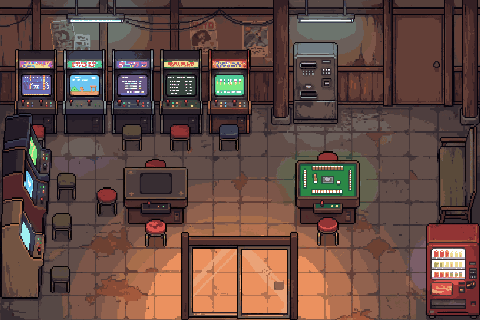
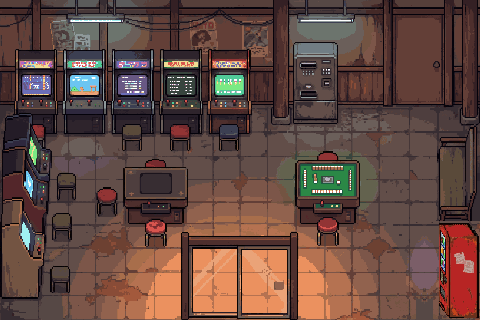
公開版を更新(慰霊碑の大写し、ゲームセンターのガラス戸と自販機、ぼぎ雀のリーチの捨て牌、版 620)

Changed region(s): [[0.875, 0.6875, 1.0, 1.0]]

diff --git a/field/index.html b/field/index.html
@@ -14,9 +14,9 @@
   <link rel="apple-touch-icon" href="./apple-touch-icon.png">
   <meta name="apple-mobile-web-app-title" content="ぼぎだぢ">
   <meta http-equiv="Cache-Control" content="no-cache">
-  <script src="./fresh.js?v=619"></script>
-  <script src="./i18n.js?v=619"></script>
-  <link rel="stylesheet" href="./style.css?v=619">
+  <script src="./fresh.js?v=620"></script>
+  <script src="./i18n.js?v=620"></script>
+  <link rel="stylesheet" href="./style.css?v=620">
 </head>
 <body>
 
@@ -54,60 +54,60 @@
   <button type="button" id="actionBtnT" class="action-btn action-btn-t" aria-label="時計">TIME</button>
 
 
-  <script src="./audio.js?v=619"></script>
-  <script src="./rpg.js?v=619"></script>
-  <script src="./worlds/common.js?v=619"></script>
-  <script src="./worlds/lake.js?v=619"></script>
-  <script src="./worlds/void.js?v=619"></script>
-  <script src="./worlds/haihei.js?v=619"></script>
-  <script src="./worlds/kasumi.js?v=619"></script>
-  <script src="./worlds/banana.js?v=619"></script>
-  <script src="./worlds/suzuki.js?v=619"></script>
-  <script src="./worlds/suzuki_print.js?v=619"></script>
-  <script src="./worlds/suzuki_tram.js?v=619"></script>
-  <script src="./worlds/takarabune.js?v=619"></script>
-  <script src="./worlds/takarabune_port.js?v=619"></script>
-  <script src="./worlds/takarabune_plant.js?v=619"></script>
-  <script src="./worlds/takarabune_deck.js?v=619"></script>
-  <script src="./worlds/noroi.js?v=619"></script>
-  <script src="./worlds/noroi_diner.js?v=619"></script>
-  <script src="./worlds/noroi_strip.js?v=619"></script>
-  <script src="./worlds/noroi_race.js?v=619"></script>
-  <script src="./worlds/pinball.js?v=619"></script>
-  <script src="./worlds/padre.js?v=619"></script>
-  <script src="./worlds/kinsei.js?v=619"></script>
-  <script src="./worlds/kinsei_sando.js?v=619"></script>
-  <script src="./worlds/kinsei_naka.js?v=619"></script>
-  <script src="./worlds/kinsei_sancho.js?v=619"></script>
-  <script src="./worlds/bomber.js?v=619"></script>
-  <script src="./worlds/bomber_farm.js?v=619"></script>
-  <script src="./worlds/keiji.js?v=619"></script>
-  <script src="./worlds/keiji_draw.js?v=619"></script>
-  <script src="./worlds/keiji_fx.js?v=619"></script>
-  <script src="./worlds/keiji_studio.js?v=619"></script>
-  <script src="./worlds/nagato.js?v=619"></script>
-  <script src="./worlds/nagato_seiha.js?v=619"></script>
-  <script src="./worlds/nagato_kohan.js?v=619"></script>
-  <script src="./worlds/nagato_aki.js?v=619"></script>
-  <script src="./worlds/nagato_ryokan.js?v=619"></script>
-  <script src="./worlds/nagato_gamecen.js?v=619"></script>
-  <script src="./worlds/nagato_uraniwa.js?v=619"></script>
-  <script src="./worlds/finale.js?v=619"></script>
-  <script src="./worlds/index.js?v=619"></script>
-  <script src="./worlds/ashi.js?v=619"></script>
-  <script src="./worlds/ikimono.js?v=619"></script>
-  <script src="./worlds/sagi.js?v=619"></script>
-  <script src="./worlds/mezame.js?v=619"></script>
-  <script src="./worlds/suzuki_mezame.js?v=619"></script>
-  <script src="./worlds/kasumi_kinai.js?v=619"></script>
-  <script src="./app/layout.js?v=619"></script>
-  <script src="./app/dialog.js?v=619"></script>
-  <script src="./app/game.js?v=619"></script>
-  <script src="./app/status.js?v=619"></script>
-  <script src="./app/title.js?v=619"></script>
-  <script src="./app/watch.js?v=619"></script>
-  <script src="./app/maroudo.js?v=619"></script>
-  <script src="./app/input.js?v=619"></script>
-  <script src="./app/loop.js?v=619"></script>
+  <script src="./audio.js?v=620"></script>
+  <script src="./rpg.js?v=620"></script>
+  <script src="./worlds/common.js?v=620"></script>
+  <script src="./worlds/lake.js?v=620"></script>
+  <script src="./worlds/void.js?v=620"></script>
+  <script src="./worlds/haihei.js?v=620"></script>
+  <script src="./worlds/kasumi.js?v=620"></script>
+  <script src="./worlds/banana.js?v=620"></script>
+  <script src="./worlds/suzuki.js?v=620"></script>
+  <script src="./worlds/suzuki_print.js?v=620"></script>
+  <script src="./worlds/suzuki_tram.js?v=620"></script>
+  <script src="./worlds/takarabune.js?v=620"></script>
+  <script src="./worlds/takarabune_port.js?v=620"></script>
+  <script src="./worlds/takarabune_plant.js?v=620"></script>
+  <script src="./worlds/takarabune_deck.js?v=620"></script>
+  <script src="./worlds/noroi.js?v=620"></script>
+  <script src="./worlds/noroi_diner.js?v=620"></script>
+  <script src="./worlds/noroi_strip.js?v=620"></script>
+  <script src="./worlds/noroi_race.js?v=620"></script>
+  <script src="./worlds/pinball.js?v=620"></script>
+  <script src="./worlds/padre.js?v=620"></script>
+  <script src="./worlds/kinsei.js?v=620"></script>
+  <script src="./worlds/kinsei_sando.js?v=620"></script>
+  <script src="./worlds/kinsei_naka.js?v=620"></script>
+  <script src="./worlds/kinsei_sancho.js?v=620"></script>
+  <script src="./worlds/bomber.js?v=620"></script>
+  <script src="./worlds/bomber_farm.js?v=620"></script>
+  <script src="./worlds/keiji.js?v=620"></script>
+  <script src="./worlds/keiji_draw.js?v=620"></script>
+  <script src="./worlds/keiji_fx.js?v=620"></script>
+  <script src="./worlds/keiji_studio.js?v=620"></script>
+  <script src="./worlds/nagato.js?v=620"></script>
+  <script src="./worlds/nagato_seiha.js?v=620"></script>
+  <script src="./worlds/nagato_kohan.js?v=620"></script>
+  <script src="./worlds/nagato_aki.js?v=620"></script>
+  <script src="./worlds/nagato_ryokan.js?v=620"></script>
+  <script src="./worlds/nagato_gamecen.js?v=620"></script>
+  <script src="./worlds/nagato_uraniwa.js?v=620"></script>
+  <script src="./worlds/finale.js?v=620"></script>
+  <script src="./worlds/index.js?v=620"></script>
+  <script src="./worlds/ashi.js?v=620"></script>
+  <script src="./worlds/ikimono.js?v=620"></script>
+  <script src="./worlds/sagi.js?v=620"></script>
+  <script src="./worlds/mezame.js?v=620"></script>
+  <script src="./worlds/suzuki_mezame.js?v=620"></script>
+  <script src="./worlds/kasumi_kinai.js?v=620"></script>
+  <script src="./app/layout.js?v=620"></script>
+  <script src="./app/dialog.js?v=620"></script>
+  <script src="./app/game.js?v=620"></script>
+  <script src="./app/status.js?v=620"></script>
+  <script src="./app/title.js?v=620"></script>
+  <script src="./app/watch.js?v=620"></script>
+  <script src="./app/maroudo.js?v=620"></script>
+  <script src="./app/input.js?v=620"></script>
+  <script src="./app/loop.js?v=620"></script>
 </body>
 </html>

diff --git a/field/worlds/nagato_gamecen.js b/field/worlds/nagato_gamecen.js
@@ -71,8 +71,10 @@ const NG_GAMECEN = {
     ngRyoCut("gcStoolL", "bg_gamecen", 96, 186, 24, 212), // 暗い台の左のいす
     ngRyoCut("gcStoolL2", "bg_gamecen", 142, 222, 26, 248), // 暗い台の前のいす
     ngRyoCut("gcStoolJ", "bg_gamecen", 314, 216, 28, 244), // ぼぎ雀の台の前のいす
-    ngRyoCut("gcVend", "bg_gamecen", 426, 222, 54, 320), // 自販機
+    ngRyoCut("gcVend", "bg_gamecen", 436, 218, 44, 320), // 自販機(横向き D808。docs/record/2026-11-20/gc_vend/)
     ngRyoCut("gcBench", "bg_gamecen", 436, 134, 44, 226), // 長いす
+    // 手前のガラス戸(南の壁)。きーはいつも戸のうしろ。枠は不透明、ガラスは半透明で透けて見える(todo 348。docs/record/2026-11-20/gc_door/)
+    { id: "gcDoor", x: 181, y: 320, w: 1, h: 1, draw(ctx, sx, sy, t, api) { const im = api.image("fg_gc_door"); if (im) ctx.drawImage(im, sx, sy - 89); } },
     // 当たり(テーブル台、いす。奥の台の前、西の壁ぎわ、テーブル台の奥と手前のいす)
     { id: "hTableL", x: 155, y: 196, w: 1, h: 1, solid: { w: 66, h: 26 }, draw() {} },
     { id: "hTableJ", x: 327, y: 204, w: 1, h: 1, solid: { w: 60, h: 30 }, draw() {} },
@@ -534,9 +536,12 @@ function bjKiAfter(i) {
   h.splice(i, 1);
   return h;
 }
+// 「▲ リーチ」のとき、i 番目を捨てるとテンパイが残るか(残らない牌は選べない。todo 351)
+const bjKiOk = (i) => !bj.arm || bjTenpai(bjKiAfter(i), bj.melds[0]);
 function bjKiDiscard(api) {
   const n = bj.hands[0].length;
   const i = bj.riichi[0] ? n : bj.cur;
+  if (!bj.riichi[0] && !bjKiOk(i)) return;
   const all = bj.hands[0].concat(bj.drawn ? [bj.drawn] : []);
   const tile = all[i];
   const after = bjKiAfter(i);
@@ -791,6 +796,11 @@ function bjDraw(ctx, ox, oy, img) {
   const pick = bj.phase === "pick" && !bj.riichi[0];
   for (let i = 0; i < h.length; i++) bjTile(ctx, img, X + 70 + i * 35, Y + 236 - (pick && bj.cur === i ? 8 : 0), h[i]);
   if (bj.drawn && bj.turn === 0) bjTile(ctx, img, X + 70 + h.length * 35 + 12, Y + 236 - (pick && bj.cur === h.length ? 8 : 0), bj.drawn);
+  // 「▲ リーチ」のあいだ、捨てるとテンパイが崩れる牌は暗く(選べない。todo 351)
+  if (pick && bj.arm) {
+    ctx.fillStyle = "rgba(6, 16, 12, 0.6)";
+    for (let i = 0; i < h.length + (bj.drawn ? 1 : 0); i++) if (!bjKiOk(i)) ctx.fillRect(X + 70 + i * 35 + (i === h.length ? 12 : 0), Y + 236, 34, 44);
+  }
   {
     let x = X + 470;
     for (const m of bj.melds[0]) {
@@ -1067,12 +1077,23 @@ const NG_JAN = {
     }
     if (bj.phase === "pick" && !bj.riichi[0]) {
       const n = bj.hands[0].length + (bj.drawn ? 1 : 0);
+      // 「▲ リーチ」のあいだは、捨ててもテンパイが残る牌だけを渡る(todo 351)
       if (dx && dx !== bj.prevX) {
-        bj.cur = (bj.cur + dx + n) % n;
+        for (let k = 0; k < n; k++) {
+          bj.cur = (bj.cur + dx + n) % n;
+          if (bjKiOk(bj.cur)) break;
+        }
         api.sfx("cursor");
       }
       if (dy === -1 && dy !== bj.prevY && bjCanRiichi()) {
         bj.arm = !bj.arm;
+        if (bj.arm && !bjKiOk(bj.cur)) {
+          // いちばん近い選べる牌へ
+          for (let d = 1; d < n; d++) {
+            if (bj.cur - d >= 0 && bjKiOk(bj.cur - d)) { bj.cur -= d; break; }
+            if (bj.cur + d < n && bjKiOk(bj.cur + d)) { bj.cur += d; break; }
+          }
+        }
         api.sfx("cursor");
       }
     }

diff --git a/field/worlds/index.js b/field/worlds/index.js
@@ -381,7 +381,7 @@ window.BOGI_WORLDS = {
     bgm: "canon", // パッヘルベルの「カノン」(D542、todo 222)。斉射の場面だけ止める
     assetBase: "./assets/worlds/nagato/",
     images: Object.fromEntries(
-      ["bg_kohan", "bg_mise", "bg_ryokan1", "bg_ryokan2", "bg_ryokan_view", "bg_kojo2", "ng_kojo2_bridge", "ng_ladder", "ng_post", "bg_kansen", "ng_swan", "ng_far", "ng_hat", "ki_hat", "ng_ki_e_hat", "ng_ki_w_hat", "bg_hotou", "bg_souten", "ng_cage_back", "ng_cage_front", "ng_shell", "ng_bag", "ng_plug_out", "ng_plug_open", "ng_ram", "fg_souten_drum", "fg_souten_beam", "fg_souten_floor", "ng_ki_e", "ng_ki_w", "ng_dial_turn", "ng_dial_elev", "ng_wheel_L", "ng_wheel_R", "fg_hotou_wall", "fg_hotou_dialL", "fg_hotou_dialR", "fg_hotou_stoolL", "fg_hotou_stoolR", "ng_ring", "bg_seiha", "bg_sora", "ng_e_ship", "bg_gamecen", "bg_uraniwa", "ng_hi_cut", "ng_hi_omote", "ng_hi_ura"]
+      ["bg_kohan", "bg_mise", "bg_ryokan1", "bg_ryokan2", "bg_ryokan_view", "bg_kojo2", "ng_kojo2_bridge", "ng_ladder", "ng_post", "bg_kansen", "ng_swan", "ng_far", "ng_hat", "ki_hat", "ng_ki_e_hat", "ng_ki_w_hat", "bg_hotou", "bg_souten", "ng_cage_back", "ng_cage_front", "ng_shell", "ng_bag", "ng_plug_out", "ng_plug_open", "ng_ram", "fg_souten_drum", "fg_souten_beam", "fg_souten_floor", "ng_ki_e", "ng_ki_w", "ng_dial_turn", "ng_dial_elev", "ng_wheel_L", "ng_wheel_R", "fg_hotou_wall", "fg_hotou_dialL", "fg_hotou_dialR", "fg_hotou_stoolL", "fg_hotou_stoolR", "ng_ring", "bg_seiha", "bg_sora", "ng_e_ship", "bg_gamecen", "bg_uraniwa", "ng_hi_cut", "ng_hi_omote", "ng_hi_ura", "fg_gc_door"]
         .map((k) => [k, `${k}.png`])
         .concat([
           ["ki", "./assets/worlds/lake/ki_walk.png"],

diff --git a/field/fresh.js b/field/fresh.js
@@ -1,7 +1,7 @@
 // 古い版が残らないように(ホーム画面に置いたとき、ページそのものが手元に残る)。index.html の中から、このファイルに出した(D301。ページの中に直接書いた script を禁止するため)
 // version.json(毎回取りにいく)の版がこのページとちがえば、URL を変えて読みなおす。版を上げるときは、下の数と version.json と ?v= をそろえる
 (function () {
-  var V = "619";
+  var V = "620";
   var key = "bogidachi.reloadedFor";
   function check(onlyIfSafe) {
     fetch("./version.json?t=" + Date.now(), { cache: "no-store" })
